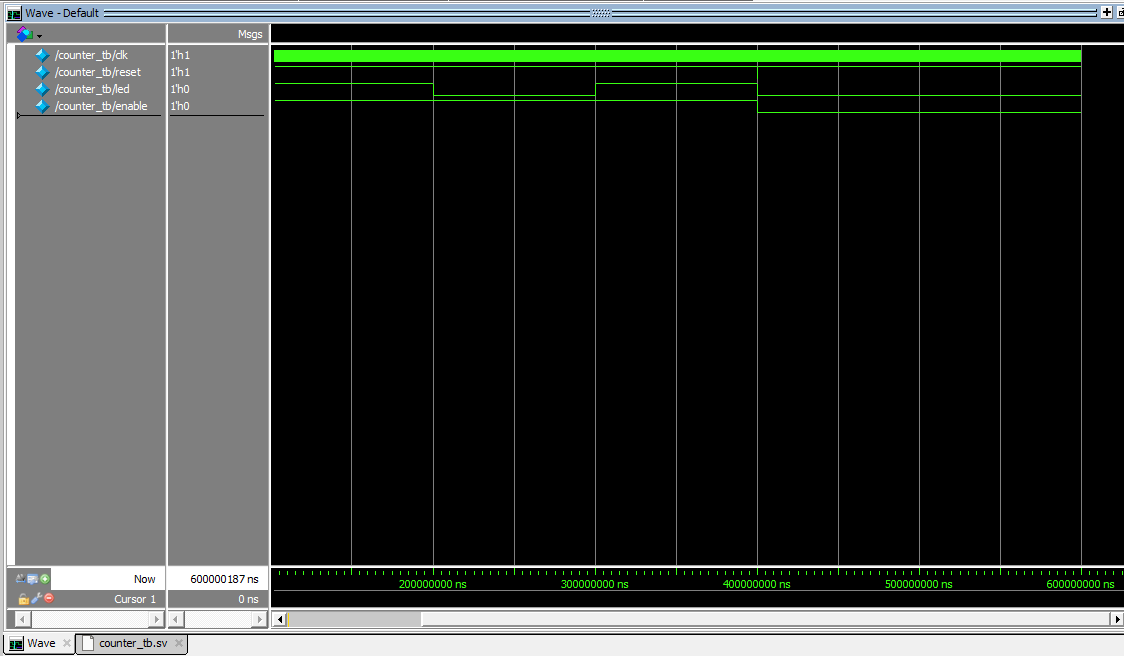
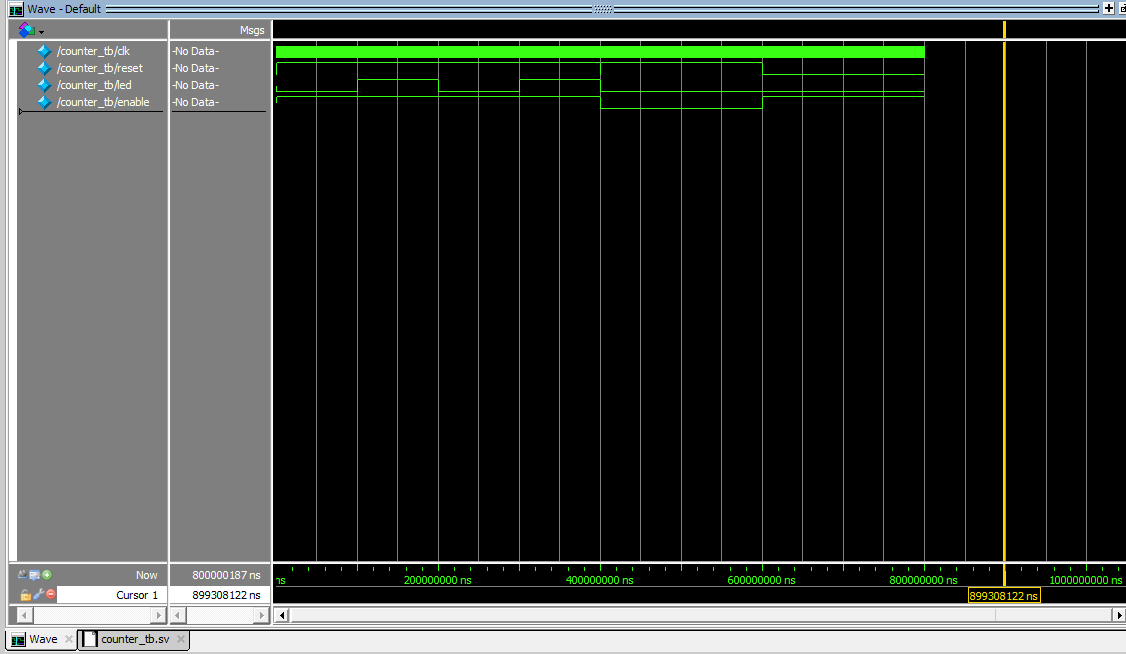
Built site for gh-pages

Changed region(s): [[0.0, 0.0, 1.0, 1.0]]

diff --git a/labs/lab1/lab1.html b/labs/lab1/lab1.html
@@ -77,6 +77,35 @@ ul.task-list li input[type="checkbox"] {
   }
 }</script>
 
+  <script src="https://cdnjs.cloudflare.com/polyfill/v3/polyfill.min.js?features=es6"></script>
+  <script defer="" src="https://cdn.jsdelivr.net/npm/mathjax@4/tex-chtml.js" type="text/javascript"></script>
+
+<script type="text/javascript">
+const typesetMath = (el) => {
+  if (window.MathJax) {
+    // MathJax Typeset
+    window.MathJax.typeset([el]);
+  } else if (window.katex) {
+    // KaTeX Render
+    var mathElements = el.getElementsByClassName("math");
+    var macros = [];
+    for (var i = 0; i < mathElements.length; i++) {
+      var texText = mathElements[i].firstChild;
+      if (mathElements[i].tagName == "SPAN" && texText && texText.data) {
+        window.katex.render(texText.data, mathElements[i], {
+          displayMode: mathElements[i].classList.contains('display'),
+          throwOnError: false,
+          macros: macros,
+          fleqn: false
+        });
+      }
+    }
+  }
+}
+window.Quarto = {
+  typesetMath
+};
+</script>
 
 <link rel="stylesheet" href="../../styles.css">
 </head>
@@ -181,10 +210,13 @@ ul.task-list li input[type="checkbox"] {
 <section id="design-and-testing-methodology" class="level1">
 <h1>Design and Testing Methodology</h1>
 <p>The RTL was structured as a top level module with two submodules. The two submodules were a counter that converted the 48MHz from the high speed oscillator to a 2.4Hz signal on the LED, and a display that would control how different switch configurations translated into turning the seven segments of the display on or off. The top level module called the two submodules and also implemented logic for the two on board LEDs that were controlled by the switches.</p>
-<p>Since the high speed oscillator was at 48MHz but the desired blinking frequency is 2.4Hz, the counter had to count to 10,000,000 oscillator cycles before turning the LED on or off. If the desired blinking frequency is 2.4Hz, then for one single blink, the LED is ON for half of the time and OFF for the other half of the time in this one cycle, so the period of each blink would be 1/4.8 seconds. Since one oscillator cycle is 48MHz, the period is 1/48M seconds, which is 10,000,000 times shorter than 1/4.8 seconds, so the counter counts to 10,000,000. The minimum number of bits needed to store this number is 24, so the counter stored the count in a 24 bit register. I thought to use the push buttons on the E155 board as the reset signal that would force the count to 0 upon push. However, these push buttons are active high, so instead of forcing the count to 0 when reset is ON, count is forced to 0 when reset is OFF because that means the button was pushed. The counter is in a single sequential block that keeps adding 1 every tick of the oscillator to keep track of the number of counts until it hits the desired count and resets.</p>
+<p>Since the high speed oscillator was at 48MHz but the desired blinking frequency is 2.4Hz, the counter had to count to 10,000,000 oscillator cycles before turning the LED on or off. If the desired blinking frequency is 2.4Hz, then for one single blink, the LED is ON for half of the time and OFF for the other half of the time in this one cycle, so the period of each blink would be 1/4.8 seconds. Since one oscillator cycle is 48MHz, the period is 1/48M seconds, which is 10,000,000 times shorter than 1/4.8 seconds, so the counter counts to 10,000,000.</p>
+<p><span class="math display">\[ \frac{1}{4.8Hz} = N \cdot \frac{1}{48MHz}\]</span> <span class="math display">\[N = 10000000\]</span></p>
+<p>The minimum number of bits needed to store this number is 24, so the counter stored the count in a 24 bit register. I thought to use the push buttons on the E155 board as the reset signal that would force the count to 0 upon push. However, these push buttons are active high, so instead of forcing the count to 0 when reset is ON, count is forced to 0 when reset is OFF because that means the button was pushed. The counter is in a single sequential block that keeps adding 1 every tick of the oscillator to keep track of the number of counts until it hits the desired count and resets.</p>
 <p>The display module was designed using a combinational case statement rather than being reduced down into boolean expressions simply because it is much easier to debug and understand. I represented each of the segments that turned on as 1 and the ones off as 0. However, because the seven segment module uses a common anode, it is active high, and thus, all of the assignments were inverted in the case statement.</p>
 <p>Three testbenches were written, one for each module. In the testbench for the display module, 16 tests were run to test all 16 combinations of switches and their corresponding seven segment outputs. The testbench for the counter module tested if restart and enable works. If we restart, we would expect that the led is off immediately after restarting, so a restart was forced after a test that would result in a 1 at the end. In this testbench, a 100MHz clock was used, and because we count to 100,000,000 in the counter, a test ran for 20ns to test if the led was on, resume for 10ns to make sure it was off, and 10ns more to make sure it was on again. When enable is off, it was checked if the led was off at 20ns, because it would be ON if the enable did not work. The top level module tested all 16 combinations of switch control of the on-board LEDs as well as the seven segment display, ensuring that the seven segment display still works in the top level module. The counter was tested in the top level module as well, because the top level contains the high speed oscillator, so the intervals that the top level counter test were compatible with a 2.4Hz blinking led. Additionally, the high speed oscillator itself was also tested in the top level by doing a similar test as the counter but the time intervals were for a 48MHz signal instead of a 2.4Hz.</p>
-<p>Since we needed to control a real seven segment display, I wired it up on a breadboard where the breadboard module was placed. The 3.3V was used as a power rail to power the common anode pins on the 7 segment display. The actual segment pins all were connected from the adapter pin to the segment pin using a resistor (and jumper wires because just the resistor was too short). The resistor controls the current that flows into the 7 segment display. The resistor values are calculated using Ohm’s law R = V/I. Since the board powers 3.3V, the potential difference due to the LED approximated using the ON/OFF model is roughly 2V, and a safe current is 5-20mA per pin, the resistor could be any value from 65 to 260 Ohms. I chose to use 200 Ohm resistors for all segments so that they all had the same brightness and current flowing through.</p>
+<p>Since we needed to control a real seven segment display, I wired it up on a breadboard where the breadboard module was placed. The 3.3V was used as a power rail to power the common anode pins on the 7 segment display. The actual segment pins all were connected from the adapter pin to the segment pin using a resistor (and jumper wires because just the resistor was too short). The resistor controls the current that flows into the 7 segment display. The resistor values are calculated using Ohm’s law R = V/I. The board powers 3.3V, the potential difference due to the LED approximated using the ON/OFF model is roughly 2V, and a safe current is 5-20mA per pin.</p>
+<p><span class="math display">\[R &gt; \frac{3.3-2V}{20mA}\]</span> <span class="math display">\[R &lt; \frac{3.3-2V}{5mA}\]</span> I chose to use 200 Ohm resistors for all segments so that they all had the same brightness and current flowing through.</p>
 </section>
 <section id="technical-documentation" class="level1">
 <h1>Technical Documentation</h1>
@@ -224,7 +256,7 @@ ul.task-list li input[type="checkbox"] {
 <div class="callout-body-container callout-body">
 <div class="quarto-figure quarto-figure-center">
 <figure class="figure">
-<p><img src="images/lab1_schematic.jpg" class="img-fluid figure-img"></p>
+<p><img src="images/lab1_schematic.png" class="img-fluid figure-img"></p>
 <figcaption>schematic</figcaption>
 </figure>
 </div>

diff --git a/lab.html b/lab.html
@@ -209,7 +209,7 @@ window.Quarto = {
 
 <div class="quarto-listing quarto-listing-container-default" id="listing-listing">
 <div class="list quarto-listing-default">
-<div class="quarto-post image-right" data-index="0" data-listing-date-sort="1788764400000" data-listing-file-modified-sort="1788899403363" data-listing-date-modified-sort="NaN" data-listing-reading-time-sort="7" data-listing-word-count-sort="1231">
+<div class="quarto-post image-right" data-index="0" data-listing-date-sort="1788764400000" data-listing-file-modified-sort="1788907046036" data-listing-date-modified-sort="NaN" data-listing-reading-time-sort="7" data-listing-word-count-sort="1230">
 <div class="thumbnail"><a href="./labs/lab1/lab1.html" class="no-external">
 
 <p class="card-img-top"><img loading='lazy' src="labs/lab1/images/lab1_block_diagram.png"  class="thumbnail-image card-img"/></p>
